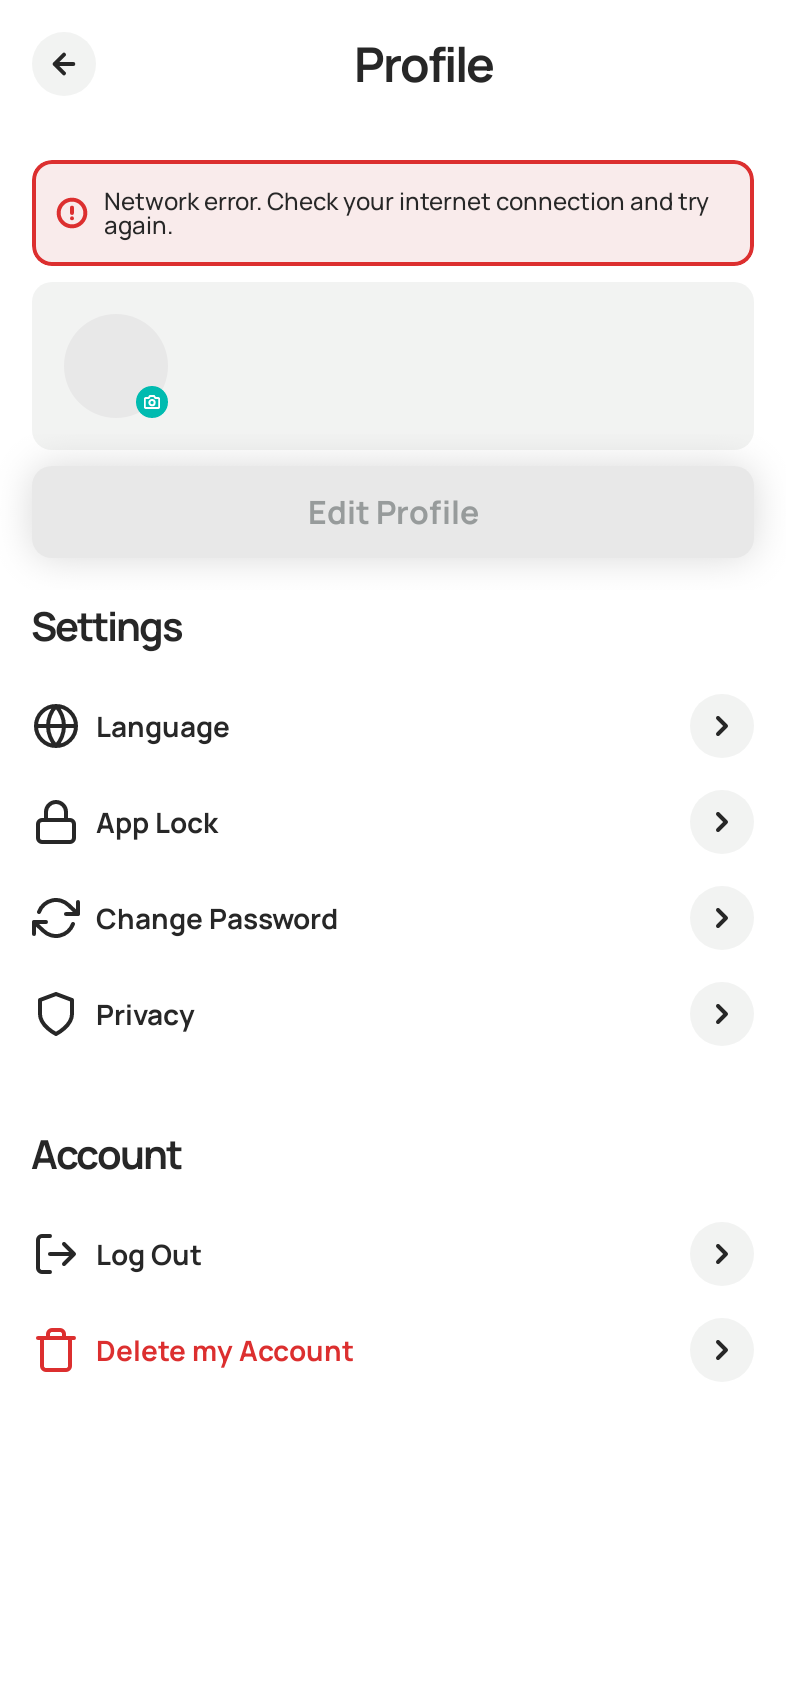
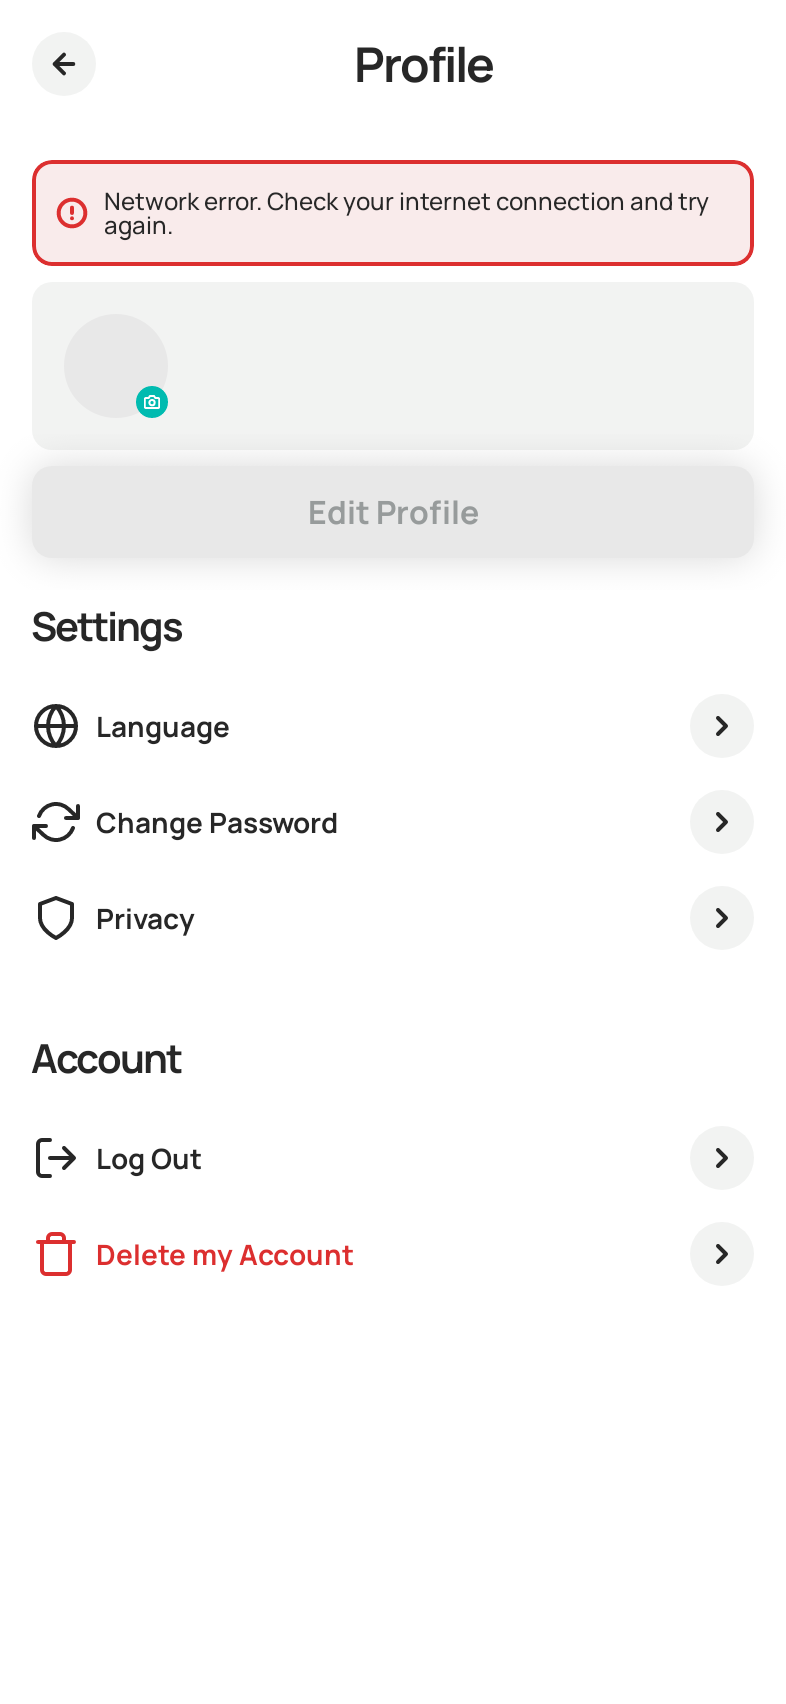
Drop app lock and remove its row from Profile
LOCK-01..03 are dropped (the user's call). The App Lock settings row and its placeholder page are gone; the docs no longer list the PIN prompts and lock pauses as not built.

diff --git a/composeApp/src/commonMain/kotlin/shifa/uz/ui/profile/ProfileScreen.kt b/composeApp/src/commonMain/kotlin/shifa/uz/ui/profile/ProfileScreen.kt
@@ -44,7 +44,6 @@ import org.jetbrains.compose.resources.painterResource
 import org.jetbrains.compose.resources.stringResource
 import shifa.composeapp.generated.resources.Res
 import shifa.composeapp.generated.resources.accountTitle
-import shifa.composeapp.generated.resources.appLock
 import shifa.composeapp.generated.resources.cancel
 import shifa.composeapp.generated.resources.changePassword
 import shifa.composeapp.generated.resources.delete
@@ -55,7 +54,6 @@ import shifa.composeapp.generated.resources.ic_camera_8
 import shifa.composeapp.generated.resources.ic_check_circle_16
 import shifa.composeapp.generated.resources.ic_clock_16
 import shifa.composeapp.generated.resources.ic_globe_24
-import shifa.composeapp.generated.resources.ic_lock_24
 import shifa.composeapp.generated.resources.ic_log_out_24
 import shifa.composeapp.generated.resources.ic_refresh_cw_24
 import shifa.composeapp.generated.resources.ic_shield_24
@@ -75,7 +73,6 @@ import shifa.composeapp.generated.resources.uploading
 import shifa.uz.data.model.PatientProfile
 import shifa.uz.data.storage.AppLanguage
 import shifa.uz.ui.debug.DebugScreen
-import shifa.uz.ui.navigation.ComingSoon
 import shifa.uz.ui.navigation.ScopedViewModels
 import shifa.uz.ui.register.Banners
 import shifa.uz.ui.register.MessagePopUp
@@ -101,8 +98,7 @@ import shifa.uz.utils.isDebugBuild
 import shifa.uz.utils.rememberImagePickerLauncher
 import shifa.uz.utils.rememberInAppBrowser
 
-// ponytail: App Lock (03) is a placeholder until its ticket.
-private enum class ProfilePage { Edit, ChangePassword, AppLock, Debug }
+private enum class ProfilePage { Edit, ChangePassword, Debug }
 
 private const val PRIVACY_URL = "https://shifa.uz/#privacy"
 
@@ -137,7 +133,6 @@ fun ProfileScreen(
         onChangePhoto = pickPhoto,
         onEdit = { page = ProfilePage.Edit },
         onLanguage = { viewModel.showDialog(ProfileDialog.Language) },
-        onAppLock = { page = ProfilePage.AppLock },
         onChangePassword = { page = ProfilePage.ChangePassword },
         onPrivacy = { openUrl(PRIVACY_URL) },
         onDebug = { page = ProfilePage.Debug }.takeIf { isDebugBuild },
@@ -181,7 +176,6 @@ fun ProfileScreen(
                             viewModel.onPasswordChanged()
                             close()
                         })
-                    ProfilePage.AppLock -> ComingSoon(stringResource(Res.string.appLock), onBack = close)
                     ProfilePage.Debug -> DebugScreen(onBack = close)
                 }
             }
@@ -207,7 +201,6 @@ internal fun ProfileContent(
     onChangePhoto: () -> Unit,
     onEdit: () -> Unit,
     onLanguage: () -> Unit,
-    onAppLock: () -> Unit,
     onChangePassword: () -> Unit,
     onPrivacy: () -> Unit,
     onLogOut: () -> Unit,
@@ -248,11 +241,6 @@ internal fun ProfileContent(
                                     stringResource(Res.string.language),
                                     onLanguage,
                                     icon = Res.drawable.ic_globe_24,
-                                )
-                                ShifaSettingsItem(
-                                    stringResource(Res.string.appLock),
-                                    onAppLock,
-                                    icon = Res.drawable.ic_lock_24,
                                 )
                                 ShifaSettingsItem(
                                     stringResource(Res.string.changePassword),

diff --git a/composeApp/src/androidMain/kotlin/shifa/uz/ui/profile/ProfilePreviews.kt b/composeApp/src/androidMain/kotlin/shifa/uz/ui/profile/ProfilePreviews.kt
@@ -35,7 +35,7 @@ private val form =
 
 @Composable
 private fun Profile(state: ProfileUiState) =
-    PreviewTheme { ProfileContent(state, {}, {}, {}, {}, {}, {}, {}, {}, {}, {}) }
+    PreviewTheme { ProfileContent(state, {}, {}, {}, {}, {}, {}, {}, {}, {}) }
 
 @Composable
 private fun EditProfile(state: EditProfileUiState) =

diff --git a/docs/implemented/README.md b/docs/implemented/README.md
@@ -36,25 +36,26 @@ The analytics plan (PostHog, ANL-01..08, not built): [../posthog/README.md](../p
 | AUTH-01 Splash & session restore | Done | The token is checked against `/patients/me/profile` while the splash plays, with a 5 s cap. Only a 401 signs out; offline keeps the session (05 §2.1). The first launch after a reinstall wipes the token. |
 | AUTH-02 Login | Mostly done | Real login, identifier normalization, the persisted 5-attempt lockout and localized errors. Goes to Home. Not built: routing on `forcePasswordReset` (needs AUTH-07), the language toggle and the version footer. |
 | AUTH-03 Create account | Mostly done | Figma 3-step wizard (account → info → photo), password checklist, check-identifier dialogs, the email/SMS choice with the email fallback. Not built: `PhoneInputField` with a country picker (a plain phone field instead, so the 04 parsing bug can't happen). |
-| AUTH-04 Register OTP verify | Mostly done | Code screen, masked destination, 300 s resend, `register-patient`, then the photo (P3) and step 2 (P2) are saved. Not built: the PIN setup prompt (needs LOCK-01). Not yet tried against the backend. |
-| AUTH-05 Doctor → patient | Mostly done | The step-1 "existing doctor" dialog replaces the confirm screen, then the email code and `create-patient-for-doctor`. Phone-only matches stop with "email required" (Q7). No PIN prompt (LOCK-01). |
+| AUTH-04 Register OTP verify | Mostly done | Code screen, masked destination, 300 s resend, `register-patient`, then the photo (P3) and step 2 (P2) are saved. No PIN setup prompt (app lock dropped). Not yet tried against the backend. |
+| AUTH-05 Doctor → patient | Mostly done | The step-1 "existing doctor" dialog replaces the confirm screen, then the email code and `create-patient-for-doctor`. Phone-only matches stop with "email required" (Q7). |
 | SHELL-01 Tab shell & bottom bar | Partly done | Figma's 5-tab bar, all five tabs built. Back goes page → Home tab → exit. The centre Shifa AI tab is hidden for gated profiles (AI-01). |
 | SHELL-03 App header | Done | Avatar → Profile, bell → Notifications (NOTIF-01), with the N2 unread badge. No chat icon (not in the Figma header). |
 | HOME-01 Home + Upcoming | Done | P1 greeting, pull to refresh, B2 upcoming (every open visit, requested ones marked Pending, until the join window closes), "Now" + Join, error banner; hidden when empty. Cards and Join open the appointment details (BOOK-06); a visit in its window gets the Live Appointment section, whose View opens the live page (see visit.md). The arrow (more than 3) opens the Upcoming appointments page. |
 | HOME-02 My Tasks | Done | T1, open tasks, up to 3. The cards and the arrow open My Tasks (TASK-01). |
 | HOME-03 My Doctors | Done (per Figma) | Figma replaces "Doctors near me" with "My Doctors": the doctors of the latest bookings, via D2. No location flow. Cards open the doctor profile; the arrow opens the full My Doctors page. |
 | HOME-04 Shared-state check | Done | Home has its own state. |
-| PROF-01 Profile + language dialog | Mostly done | Figma card, settings and account sections, pull to refresh, the language dialog (local + P2). App Lock is a placeholder; Privacy opens shifa.uz/#privacy in an in-app browser. No version footer (not in Figma). |
-| PROF-02 Avatar upload | Mostly done | P3 then P2, from Profile and Edit profile. No cache-buster; the app lock isn't suspended (no LOCK-01). |
+| PROF-01 Profile + language dialog | Mostly done | Figma card, settings and account sections, pull to refresh, the language dialog (local + P2). No App Lock row (app lock dropped); Privacy opens shifa.uz/#privacy in an in-app browser. No version footer (not in Figma). |
+| PROF-02 Avatar upload | Mostly done | P3 then P2, from Profile and Edit profile. No cache-buster. |
 | PROF-03 Edit profile | Mostly done | Figma form with 14 §7 validation, P2 without `photoUrl`. A single phone field (no country picker), a language dropdown. No discard prompt (14 §3.2 has none). |
 | PROF-04 Location picker | Placeholder | "Select on Map" opens "Coming soon"; the street address is typed. |
 | PROF-05 Change password | Done | A8 with the registration password policy. A wrong current password says so. No Figma frame. |
 | PROF-06 Delete account | Mostly done | P5 → email code (A4) → P6 → logout → Login notice. Phone-only accounts stop with "email required" (Q16). Not yet tried against the backend. |
 | PROF-07 Logout from profile | Done | Confirm dialog → awaited AUTH-08 → Login. |
-| AUTH-08 Logout | Partly done | P7 `""`, token wipe, session-scoped state is dropped. Also clears the Shifa AI chats. Not built: clearing the PIN (LOCK-01) and the global 401 path (CORE-05). |
+| LOCK-01..03 App lock | Dropped | The user's call (2026-10-19): no PIN, biometrics or lock screen, and no App Lock row in Profile (Figma has one). The PIN prompts in AUTH-04 / AUTH-05 and the lock pauses for pickers and calls go with it. |
+| AUTH-08 Logout | Partly done | P7 `""`, token wipe, session-scoped state is dropped. Also clears the Shifa AI chats. Not built: the global 401 path (CORE-05). |
 | AUTH-06 Forgot password | Mostly done | Identifier → code → new password → auto-login (A9, A10), no Figma frames. Fixes Q8, Q10, Q12, Q13. Not built: the success SnackBar. Not yet tried against the backend. |
 | DOCS-01 Documents list | Done | Figma list with title search, pull to refresh and local dates. Category filter chips, a category tag on cards and swipe-left delete for own uploads (none of them in Figma). |
-| DOCS-02 Upload document | Mostly done | Camera / photo / PDF tray, the Figma upload pop-up with title and optional type, F2 multipart. No date field (not in Figma), no camera rationale, the app lock isn't suspended (no LOCK-01). |
+| DOCS-02 Upload document | Mostly done | Camera / photo / PDF tray, the Figma upload pop-up with title and optional type, F2 multipart. No date field (not in Figma), no camera rationale. |
 | DOCS-03 Viewer, download, delete | Mostly done | PdfRenderer / PDFKit and a zoomable image, real download, delete with confirm for own uploads. No details screen (deep links only). Not yet tried against the backend. |
 | DOC-01 Doctors list | Partly done | Only as the Bookings tab's Recommended doctors (Figma): debounced D1 search, the quick chips (Near me with the device location) and a See all arrow to the full Recommended page. No filters sheet, scroll pagination or availability enrichment. |
 | DOC-02 Doctor profile + reviews | Mostly done | Figma profile: header card (Nearby tag after a Near me fix), About / Clinic / Reviews / Services / Certificates tabs, contact links, D4 reviews as Figma review cards. Create Booking opens the booking page (BOOK-01). No service sheet or open in maps. |
@@ -65,7 +66,7 @@ The analytics plan (PostHog, ANL-01..08, not built): [../posthog/README.md](../p
 | BOOK-05 Bookings list | Partly done | The Figma tab: Recommended doctors, My Doctors, Past Appointments on All (other chips: doctors only, as full cards with tags; Recommended hidden when D1 sends none), each arrow opening its full page. No status tabs, upcoming list or pay later (not in Figma; BOOK-04 not built). |
 | BOOK-06 Appointment details, cancel, reschedule | Mostly done | Figma details. Upcoming: Clinic / Video / Date and Time / Location / Additional Information cards, Reschedule (B1 + B3 with `rescheduleAppointmentId`, Figma page) and Cancel (confirm, B5) from 48 h ahead; under 48 h the warning, which dials or mails the doctor. Past: the collapsible details card. No Service, Attach Document, past Documents / Tasks (no backend data) or View Summary (BOOK-09). Not tried on a device (production). |
 | BOOK-12 Submit review | Mostly done | Past details (not cancelled): B7, then Leave Review opens the Figma tray (stars, comment, D5 with the visit); after it, or if B7 has one, the details show the review. D5's 401 doesn't log out. Not sent on a device (production). |
-| BOOK-08 Waiting room + video call | Mostly done, not in a real call yet | Figma join and waiting room over Daily (Android SDK, iOS Swift package): permissions, preview, V1, the waiting room, the doctor's video with the patient's in a corner, camera / mic / switch / hang up. Back during the call shrinks it to a draggable window over the app (not in Figma); a tap brings it back. No join-timeout retry or app-lock pause. |
+| BOOK-08 Waiting room + video call | Mostly done, not in a real call yet | Figma join and waiting room over Daily (Android SDK, iOS Swift package): permissions, preview, V1, the waiting room, the doctor's video with the patient's in a corner, camera / mic / switch / hang up. Back during the call shrinks it to a draggable window over the app (not in Figma); a tap brings it back. No join-timeout retry. |
 | BOOK-10 E-signing | Partly done | The Live Appointment page's Request to sign: the signature pad (strokes stay inside its box) and B6. No 025-2 form signing (B11 / B12). |
 | TASK-01 Tasks list | Mostly done | Figma Open / Completed tabs over T1, progress bars on Open, pull to refresh. EXPIRED with nothing pending shows in both tabs (quirk 1). No ⋮ menu (not in Figma), no reload on resume. |
 | TASK-02 Task check-in | Mostly done | Figma task page: the T3 check-ins on a month calendar (submitted, to do, missed). A day opens a tray: its PENDING check-in's form (NUMERIC / TEXT / BOOLEAN and a comment, sendable from 10 minutes before), else what was submitted. T4, then the page, My Tasks and Home reload. No From Appointment, no Delete Entry (no backend, backend-improvements §14), no T2 (deep links). Not submitted on a device (production). |
@@ -119,3 +120,4 @@ The analytics plan (PostHog, ANL-01..08, not built): [../posthog/README.md](../p
 - 2026-10-19: Task page redone (Figma 1655:17107, 1662:18016, 1662:18317, 1891:21385, 1891:21727): My Tasks on the canvas background, and the check-in list replaced by a month calendar (`ShifaCalendarCard`) with a tray to submit a day's entry or see a submitted one. T3's values and notes are read now. The backend has no delete or edit for an entry and no link from a task to its visit, so Delete Entry and From Appointment aren't built (backend-improvements §14). Demo data has a week of history per task.
 - 2026-10-19: Shifa AI voice input (AI-02): the chat bar's mic records (Figma chat-bar recording) and X2's transcript fills the input. The video call shrinks to a draggable window on Back so the patient can sign, and grows back on a tap. Strokes stay inside the signature pad. A task notification's tray has Submit Check in (Figma 1703:16483) with the check-in tray over the inbox (1891:22050); the trays' buttons lose the arrow icon (Figma). Demo data fakes X2. Fixed the iOS build (a Long day count in the task calendar).
 - 2026-10-19: Wrote the PostHog analytics plan in `docs/posthog/` (no code): setup (EU cloud, Dev / Prod projects, keys, CI, a `commonMain` facade over the native Android and iOS SDKs), the event catalog for every screen and flow, privacy rules (no health data, identity or record ids; Uzbekistan's data localization law needs legal review), dashboards and alerts, and the rules for tracking future features.
+- 2026-10-19: Dropped app lock (LOCK-01..03, the user's call): the App Lock row and its placeholder page are gone from Profile.

diff --git a/docs/implemented/profile.md b/docs/implemented/profile.md
@@ -2,13 +2,13 @@
 
 ## Profile (`ui/profile/ProfileScreen.kt`, PROF-01/02/07)
 
-- Figma: `1703:16707`. Opened from the header avatar (the Account page). It shows the profile card (avatar with a camera badge, name, phone, email), Edit Profile, Settings (Language, App Lock, Change Password, Privacy) and Account (Log Out, Delete my Account). Pull to refresh reloads P1. A 401 on P1 logs out.
+- Figma: `1703:16707`. Opened from the header avatar (the Account page). It shows the profile card (avatar with a camera badge, name, phone, email), Edit Profile, Settings (Language, Change Password, Privacy) and Account (Log Out, Delete my Account). Pull to refresh reloads P1. A 401 on P1 logs out.
 - No version footer: Figma has none.
-- App Lock (LOCK-02) is a "Coming soon" placeholder. Privacy opens `https://shifa.uz/#privacy` in an in-app browser (`rememberInAppBrowser`: a Custom Tab on Android, `SFSafariViewController` on iOS); it did nothing in Flutter.
+- No App Lock row: app lock (LOCK-01..03) is dropped (the user's call, 2026-10-19), though Figma has the row. Privacy opens `https://shifa.uz/#privacy` in an in-app browser (`rememberInAppBrowser`: a Custom Tab on Android, `SFSafariViewController` on iOS); it did nothing in Flutter.
 - The dialogs have no Figma frame and use the pop-up widget. Language is a radio list, Log out and Delete my account are confirms.
 - Language (CORE-04): the choice is saved locally (`app_language`, `LanguageStorage`), then P2 `{language}` tells the backend (errors ignored). The saved choice wins, then the system language, then English. The server's language never overrides the local one, which differs from Flutter (14 §3.1). `ProvideAppLocale` switches the resources at runtime: `Locale.setDefault` + configuration on Android, `AppleLanguages` on iOS. The iOS switch hasn't been tried on a device.
-- Avatar (PROF-02): the picker uploads P3 and saves the URL with P2, from the profile card or Edit profile. Home's header takes the saved profile (P2's reply) after this or an Edit profile save. No cache-buster, and the app lock isn't suspended (no LOCK-01 yet).
-- Log out (PROF-07, AUTH-08): confirm → P7 with `""` → the token is wiped → Login. The logout is awaited (Flutter didn't wait). Every screen's ViewModel lives in the signed-in session's store, so no profile state survives. No PIN to clear yet (LOCK-01). The global 401 path (CORE-05) is still not built.
+- Avatar (PROF-02): the picker uploads P3 and saves the URL with P2, from the profile card or Edit profile. Home's header takes the saved profile (P2's reply) after this or an Edit profile save. No cache-buster.
+- Log out (PROF-07, AUTH-08): confirm → P7 with `""` → the token is wiped → Login. The logout is awaited (Flutter didn't wait). Every screen's ViewModel lives in the signed-in session's store, so no profile state survives. The global 401 path (CORE-05) is still not built.
 
 ## Edit profile (`EditProfileScreen.kt`, PROF-03)
 

diff --git a/docs/implemented/visit.md b/docs/implemented/visit.md
@@ -20,7 +20,7 @@
 - Join Now: V1 for the Daily token and room, then Daily's join. V1's refusals show their texts (not yet in the window, ended, payment required, not your visit); others show "Failed to start video call".
 - Joined: "Waiting for doctor to start appointment" with a turning loader while the doctor isn't in, the patient's camera in the tile. When the doctor joins, their camera fills the tile and the patient's goes to a small picture (not in Figma). The pill: camera and microphone on / off (dimmed when off, not in Figma), switch camera, hang up. Hang up leaves the call; so does the doctor ending it. Back before joining leaves; Back during the call (the header arrow or the system Back) shrinks it to a 120×160 window over the app (not in Figma): the doctor's video (else the patient's), draggable within the screen, a tap makes it full screen again. The app works underneath, so the patient can open the Live Appointment page and sign. Join Video Call on that page also brings it back. A push tap shrinks the call instead of ending it. Trays (the sign tray) are their own windows, so they dim the small window while open.
 - The call: `utils/VideoCall.kt`. Android uses Daily's SDK (`co.daily:client`); iOS uses Daily's Swift package through `iosApp/iosApp/DailyVideoCall.swift`, which implements the Kotlin `NativeVideoCall` and is registered in `AppDelegate`. Loudspeaker on join (06 §3.6).
-- Not built: the join-timeout retry, pausing the app lock (LOCK-01), the iOS black-camera workaround (06 §3.6). Tried on the Android emulator with demo data up to Join Now (permissions, the live camera preview, V1's refusal). Not joined in a real call yet: that needs a video visit in its window on the real backend.
+- Not built: the join-timeout retry, the iOS black-camera workaround (06 §3.6). Tried on the Android emulator with demo data up to Join Now (permissions, the live camera preview, V1's refusal). Not joined in a real call yet: that needs a video visit in its window on the real backend.
 - Android declares CAMERA now, so the photo camera (documents, chat, profile) asks for it before TakePicture.
 
 ## Debug menu

diff --git a/docs/implemented/auth.md b/docs/implemented/auth.md
@@ -56,7 +56,7 @@
 - Code screen: 6 digits only (non-digits are dropped), the masked destination, a 300 s `m:ss` resend cooldown, and "code sent again" after a resend. Verify calls A7 with `emailOtp` or `smsOtp`, saves the token, then goes to Home.
 - After A7, the photo goes to P3 (`patients/me/photo`, field `file`) and step 2 goes to P2 (`PATCH patients/me/profile`, only the set keys). A7 has `birthDate`/`address` keys, but the Flutter UI never sent them, so they're unverified. Both saves are best effort: a failure is dropped silently. P4 is not used.
 - Doctor link (05 §2.5): "Create patient account" skips steps 2–3 and sends an email code to the typed email, then A6. A phone-only doctor match shows "email required" (Q7). The dialog copy still says the code goes "to your phone"; that's the spec string.
-- Not built: the PIN setup prompt after register (needs LOCK-01), and the `PhoneInputField` country picker. It's a plain phone field, which avoids bug #9.
+- Not built: the `PhoneInputField` country picker. No PIN setup prompt: app lock is dropped (the user's call, 2026-10-19). It's a plain phone field, which avoids bug #9.
 - Differences from Figma: the sub-logo glass tile is drawn as a surface tile with a faint teal border. "Continue with Google" is hidden.
 
 ## Forgot password (`ui/forgotpassword/`, AUTH-06)

diff --git a/docs/implemented/documents.md b/docs/implemented/documents.md
@@ -14,7 +14,7 @@
 - Upload opens a tray (Camera, Photo, File). The Figma tray is titled "Add to chat" (a copy of the chat tray's), so it says "Upload". File picks PDFs only. The camera photo is turned upright and re-encoded as JPEG (Android: FileProvider into the cache dir; iOS: `UIImagePickerController`).
 - The pick opens the Figma "Document Upload" pop-up: the file name with Change, the title (defaults to the file name without its extension) and an optional type. Change keeps a title the user typed. Picking the chosen type again clears it (11 quirk 8).
 - Save sends F2 multipart: `file` with a real Content-Type and a sanitized file name (11 quirk 10), `title`, `isChatAttachment=false`, and `category` only when chosen. An empty title shows an error instead of silently doing nothing (11 quirk 8). A failure keeps the pop-up and the list (11 quirk 6). Success puts the new document first.
-- Not built: the date field (not in Figma), the camera permission rationale, and the app-lock suspension while picking (needs LOCK-01).
+- Not built: the date field (not in Figma), the camera permission rationale.
 
 ## Viewer (`DocumentViewerScreen.kt`, DOCS-03)
 
